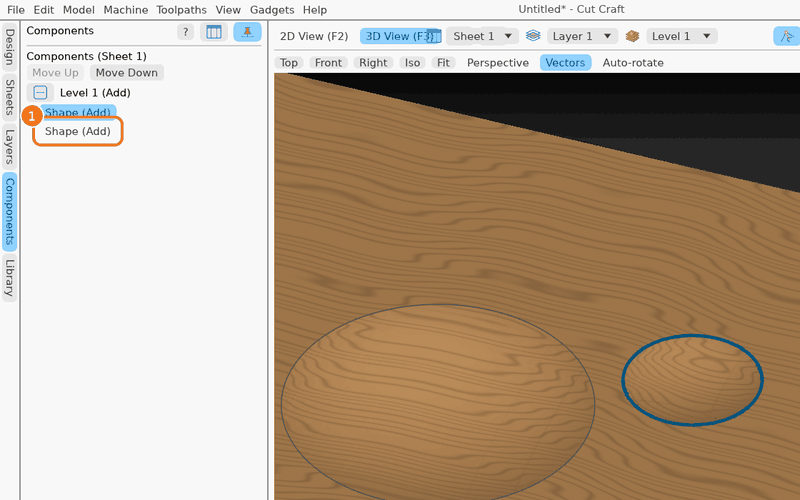
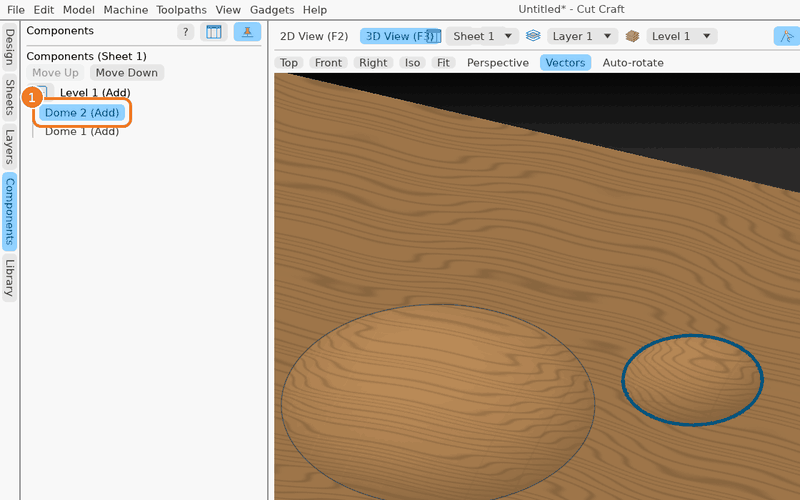
fix: help wording from review: Create buttons, toolpath buttons above the list, hidden toolpaths, spacing order
Claude-Session: https://claude.ai/code/session_01Uqr4BKZKwcPLHnvV4fYfh1

diff --git a/crates/app/src/help_tours.rs b/crates/app/src/help_tours.rs
@@ -4975,7 +4975,7 @@ pub const TOURS: &[Tour] = &[
                 mark: Mark::At("field:name"),
             },
             Step {
-                caption: "Press **Apply**. The new layer goes to the top of the list and is \
+                caption: "Press **Create**. The new layer goes to the top of the list and is \
                           made current, so what you draw next goes on it.",
                 setup: |app, _| {
                     apply_form(app);
@@ -5004,7 +5004,7 @@ pub const TOURS: &[Tour] = &[
                 mark: Mark::At("field:name"),
             },
             Step {
-                caption: "Press **Apply**. The new sheet is listed; click it to work on it, and \
+                caption: "Press **Create**. The new sheet is listed; click it to work on it, and \
                           change its size in **Job Setup**.",
                 setup: |app, _| {
                     apply_form(app);
@@ -5027,7 +5027,7 @@ pub const TOURS: &[Tour] = &[
                 mark: Mark::At("toolpath:Cut out"),
             },
             Step {
-                caption: "Press **Move Up** or **Move Down** under the list, or drag the \
+                caption: "Press **Move Up** or **Move Down** above the list, or drag the \
                           toolpath to its new place.",
                 setup: |_, _| {},
                 mark: Mark::At("button:toolpaths_move_up"),
@@ -5121,7 +5121,7 @@ pub const TOURS: &[Tour] = &[
                 mark: Mark::At("field:cross_section"),
             },
             Step {
-                caption: "Press **Apply**. The knot's loops are drawn as smooth closed vectors, \
+                caption: "Press **Create**. The knot's loops are drawn as smooth closed vectors, \
                           the rails Extrude and Weave turns into a weave.",
                 setup: |app, _| {
                     set(app, "cross_section", true.into());
@@ -5256,7 +5256,7 @@ pub const TOURS: &[Tour] = &[
                 mark: Mark::At("field:angle"),
             },
             Step {
-                caption: "Press **Apply**. The shape is added to the model as a component.",
+                caption: "Press **Create**. The shape is added to the model as a component.",
                 setup: |app, _| model_result(app, &[("total_height", 12.0)]),
                 mark: Mark::None,
             },
@@ -5479,7 +5479,7 @@ pub const TOURS: &[Tour] = &[
                 mark: Mark::At("toolpath:Engrave"),
             },
             Step {
-                caption: "Press **Delete** under the list (or the Delete key). The vectors it \
+                caption: "Press **Delete** above the list (or the Delete key). The vectors it \
                           was made from stay.",
                 setup: |_, _| {},
                 mark: Mark::At("button:toolpaths_delete"),
@@ -5505,8 +5505,8 @@ pub const TOURS: &[Tour] = &[
                 mark: Mark::At("component:Shape"),
             },
             Step {
-                caption: "Choose **Duplicate**. The copy sits in the same place, just above it \
-                          in the list: move it where you want it.",
+                caption: "Choose **Duplicate**. The copy sits in the same place, at the top of \
+                          its level in the list: click it there, then move it.",
                 setup: |app, _| {
                     let first = app.doc.components.keys().next().copied();
                     if let Some(id) = first {
@@ -5624,7 +5624,7 @@ pub const TOURS: &[Tour] = &[
                 mark: Mark::At("toolpath:Engrave"),
             },
             Step {
-                caption: "Press **Group** under the list. The group is cut one toolpath after \
+                caption: "Press **Group** above the list. The group is cut one toolpath after \
                           another, and moves as one.",
                 setup: |_, _| {},
                 mark: Mark::At("button:toolpaths_group"),
@@ -5692,7 +5692,7 @@ pub const TOURS: &[Tour] = &[
                 mark: Mark::At("field:name"),
             },
             Step {
-                caption: "Press **Apply**. The new level goes on top: it combines with the \
+                caption: "Press **Create**. The new level goes on top: it combines with the \
                           levels below it.",
                 setup: |app, _| {
                     apply_form(app);
@@ -5773,7 +5773,7 @@ pub const TOURS: &[Tour] = &[
             },
             Step {
                 caption: "Tick **Own Colour** and pick a **Colour** to tell this layer's \
-                          vectors apart at a glance.",
+                          vectors apart, then press **Apply** to keep the changes.",
                 setup: |app, _| set(app, "own_colour", true.into()),
                 mark: Mark::At("field:own_colour"),
             },
@@ -6115,11 +6115,16 @@ pub const TOURS: &[Tour] = &[
                 setup: |app, ctx| {
                     fresh_job(app, ctx);
                     model_dome2(app, ctx);
+                    for (component, name) in
+                        app.doc.components.values_mut().zip(["Dome 1", "Dome 2"])
+                    {
+                        component.name = name.into();
+                    }
                     let last = app.doc.components.keys().last().copied();
                     app.doc.selected_components = last.into_iter().collect();
                     on_list(app, COMPONENTS);
                 },
-                mark: Mark::At("component:Shape"),
+                mark: Mark::At("component:Dome 2"),
             },
             Step {
                 caption: "Press **Move Up** or **Move Down** over the list to move it one place \
@@ -6148,7 +6153,8 @@ pub const TOURS: &[Tour] = &[
                 mark: Mark::At("tool:reorder_layer"),
             },
             Step {
-                caption: "The layer is one place lower in the list now.",
+                caption: "The layer is one place lower in the list now (Move Up takes it \
+                          back up).",
                 setup: |app, _| {
                     let params = serde_json::json!({ "layer": 2, "direction": "down" });
                     run(app, "reorder_layer", params);
@@ -6521,7 +6527,8 @@ pub const TOURS: &[Tour] = &[
         tool: "space_horizontally",
         steps: &[
             Step {
-                caption: "Select three or more shapes. The outermost two stay where they are.",
+                caption: "Select three or more shapes, clicking them in the order you want them \
+                          from left to right.",
                 setup: |app, ctx| {
                     fresh_job(app, ctx);
                     shapes_three(app);
@@ -6543,8 +6550,8 @@ pub const TOURS: &[Tour] = &[
         tool: "space_vertically",
         steps: &[
             Step {
-                caption: "Select three or more shapes. The top and bottom ones stay where they \
-                          are.",
+                caption: "Select three or more shapes, clicking them in the order you want them \
+                          from bottom to top.",
                 setup: |app, ctx| {
                     fresh_job(app, ctx);
                     stacked_three(app);
@@ -6652,8 +6659,8 @@ pub const TOURS: &[Tour] = &[
                 mark: Mark::At("field:name"),
             },
             Step {
-                caption: "The tick before a toolpath shows or hides it, and its coloured square \
-                          sets its colour in the preview.",
+                caption: "The tick before a toolpath shows or hides it. Its coloured square, \
+                          shown when the material's Machined Area Color is Toolpath Color, sets its colour.",
                 setup: |app, _| {
                     set(app, "name", "Cut out".into());
                     apply_form(app);
@@ -6792,7 +6799,7 @@ pub const TOURS: &[Tour] = &[
                 mark: Mark::At("toolpath_group:Group 1"),
             },
             Step {
-                caption: "Press **Ungroup** under the list (or right-click the group ▸ \
+                caption: "Press **Ungroup** above the list (or right-click the group ▸ \
                           **Ungroup**). Its toolpaths stay, out of the group.",
                 setup: |_, _| {},
                 mark: Mark::At("button:toolpaths_ungroup"),
@@ -6877,7 +6884,7 @@ pub const TOURS: &[Tour] = &[
                 mark: Mark::At("field:cove_start"),
             },
             Step {
-                caption: "Press **Apply**. The flutes are laid out as vectors on the unrolled \
+                caption: "Press **Create**. The flutes are laid out as vectors on the unrolled \
                           surface, for a Profile or Fluting toolpath.",
                 setup: |app, _| apply_form(app),
                 mark: Mark::Everything,
@@ -6903,7 +6910,7 @@ pub const TOURS: &[Tour] = &[
                 mark: Mark::At("field:distance"),
             },
             Step {
-                caption: "Press **Apply**. The strands are laid out on the unrolled surface; \
+                caption: "Press **Create**. The strands are laid out on the unrolled surface; \
                           wrapped round, they are a spiral.",
                 setup: |app, _| apply_form(app),
                 mark: Mark::Everything,

diff --git a/crates/help/pages/tools/space_vertically.md b/crates/help/pages/tools/space_vertically.md
@@ -4,13 +4,13 @@ see-also: space_horizontally, align_top, center_vertically
 ---
 
 **Space Vertically** spreads the selected objects so the gaps between them up the job are even.
-The top and bottom ones stay where they are. It is in **Edit ▸ Align Selected Objects**.
+It is in **Edit ▸ Align Selected Objects**.
 
 ## Steps
 
 ![The steps, one after another](pictures/space_vertically/tour.gif)
 
-1. Select three or more shapes. The top and bottom ones stay where they are.
+1. Select three or more shapes, clicking them in the order you want them from bottom to top.
 
    ![Step 1](pictures/space_vertically/step-1.png)
 
@@ -20,8 +20,10 @@ The top and bottom ones stay where they are. It is in **Edit ▸ Align Selected 
 
 ## The choices
 
-- **Bottom To Top**: the first one you picked goes at the bottom.
-- **Top To Bottom**: the first one you picked goes at the top.
+- **Space Vertically** on the right-click menu keeps them in the order they sit: the top and
+  bottom ones stay where they are.
+- **Bottom To Top**: the first one you picked goes at the bottom, so the ends can move too.
+- **Top To Bottom**: the first one you picked goes at the top, so the ends can move too.
 - **Vertically Inside Last Vector**: spreads them inside the last vector picked, which stays put.
 
 See [Space Horizontally](help:space_horizontally) for spacing across.

diff --git a/crates/help/pages/tools/space_horizontally.md b/crates/help/pages/tools/space_horizontally.md
@@ -4,13 +4,13 @@ see-also: space_vertically, align_left, center_horizontally
 ---
 
 **Space Horizontally** spreads the selected objects so the gaps between them across the job are
-even. The leftmost and rightmost stay where they are. It is in **Edit ▸ Align Selected Objects**.
+even. It is in **Edit ▸ Align Selected Objects**.
 
 ## Steps
 
 ![The steps, one after another](pictures/space_horizontally/tour.gif)
 
-1. Select three or more shapes. The outermost two stay where they are.
+1. Select three or more shapes, clicking them in the order you want them from left to right.
 
    ![Step 1](pictures/space_horizontally/step-1.png)
 
@@ -20,8 +20,10 @@ even. The leftmost and rightmost stay where they are. It is in **Edit ▸ Align 
 
 ## The choices
 
-- **Left To Right**: the first one you picked goes on the left.
-- **Right To Left**: the first one you picked goes on the right.
+- **Space Horizontally** on the right-click menu keeps them in the order they sit: the leftmost
+  and rightmost stay where they are.
+- **Left To Right**: the first one you picked goes on the left, so the ends can move too.
+- **Right To Left**: the first one you picked goes on the right, so the ends can move too.
 - **Horizontally Inside Last Vector**: spreads them inside the last vector picked, which stays
   put.
 

diff --git a/crates/help/pages/tools/toolpath_properties.md b/crates/help/pages/tools/toolpath_properties.md
@@ -18,7 +18,7 @@ Toolpath List: right-click ▸ **Rename**, the tick before it, and its coloured 
 
    ![Step 2](pictures/toolpath_properties/step-2.png)
 
-3. The tick before a toolpath shows or hides it, and its coloured square sets its colour in the preview.
+3. The tick before a toolpath shows or hides it. Its coloured square, shown when the material's Machined Area Color is Toolpath Color, sets its colour.
 
    ![Step 3](pictures/toolpath_properties/step-3.png)
 
@@ -26,4 +26,8 @@ Toolpath List: right-click ▸ **Rename**, the tick before it, and its coloured 
 
 - **Preview Color: No Fill** on the right-click menu shows its areas in the material's own
   colour.
-- Hidden (unticked) toolpaths are not drawn, previewed or saved.
+- The coloured square shows only when the material's **Machined Area Color** is **Toolpath
+  Color**.
+- Hidden (unticked) toolpaths are not drawn, and **Preview Visible** and **Save Toolpaths**
+  (shown ones) leave them out. **Preview All** still previews them, and saving the selected
+  toolpath alone still saves it.

diff --git a/crates/help/pages/tools/duplicate_component.md b/crates/help/pages/tools/duplicate_component.md
@@ -3,8 +3,8 @@ reviewed: 2026-11-22
 see-also: component_properties, mirror, array_copy
 ---
 
-**Duplicate** makes a copy of a 3D component in the same place and level, just above it in the
-Components list. Move or change the copy without touching the first.
+**Duplicate** makes a copy of a 3D component in the same place and level, at the top of that
+level in the Components list. Click the copy there before you move it. Move or change the copy without touching the first.
 
 ## Steps
 
@@ -14,7 +14,7 @@ Components list. Move or change the copy without touching the first.
 
    ![Step 1](pictures/duplicate_component/step-1.png)
 
-2. Choose **Duplicate**. The copy sits in the same place, just above it in the list: move it where you want it.
+2. Choose **Duplicate**. The copy sits in the same place, at the top of its level in the list: click it there, then move it.
 
    ![Step 2](pictures/duplicate_component/step-2.png)
 

diff --git a/crates/help/pages/tools/select_all_duplicate_vectors.md b/crates/help/pages/tools/select_all_duplicate_vectors.md
@@ -3,8 +3,8 @@ reviewed: 2026-11-22
 see-also: select_all_vectors, vector_validator, delete
 ---
 
-**Select All Duplicate Vectors** (Edit ▸ Selection) selects every vector lying exactly on top of
-another one. Drawings from other programs often have them, and they would be cut twice. Press
+**Select All Duplicate Vectors** (Edit ▸ Selection) selects the extra copies of every vector
+drawn twice, one exactly on top of the other, leaving one of each unselected. Drawings from other programs often have them, and they would be cut twice. Press
 **Delete** to keep one of each.
 
 ## Steps

diff --git a/crates/help/pages/tools/show_hide.md b/crates/help/pages/tools/show_hide.md
@@ -4,8 +4,8 @@ see-also: layer_properties, interface_layout, zoom_to_job
 ---
 
 **Show** and **Hide** on the right-click menu of a layer, toolpath or component show or hide it,
-or a whole set at once. Hidden layers' vectors are not drawn or picked, hidden toolpaths are not
-previewed or saved, and hidden components are left out of the model.
+or a whole set at once. Hidden layers' vectors are not drawn or picked, hidden toolpaths are left
+out of Preview Visible and of saving the shown ones, and hidden components are left out of the model.
 
 ## Steps
 

diff --git a/crates/help/pages/tools/celtic_weave.md b/crates/help/pages/tools/celtic_weave.md
@@ -20,7 +20,7 @@ smooth closed vectors, the rails [Extrude and Weave](help:extrude_and_weave) tur
 
    ![Step 2](pictures/celtic_weave/step-2.png)
 
-3. Press **Apply**. The knot's loops are drawn as smooth closed vectors, the rails Extrude and Weave turns into a weave.
+3. Press **Create**. The knot's loops are drawn as smooth closed vectors, the rails Extrude and Weave turns into a weave.
 
    ![Step 3](pictures/celtic_weave/step-3.png)
 

diff --git a/crates/help/pages/tools/wrapped_fluting_layout.md b/crates/help/pages/tools/wrapped_fluting_layout.md
@@ -19,7 +19,7 @@ for a Profile or Fluting toolpath; it makes no toolpaths itself.
 
    ![Step 2](pictures/wrapped_fluting_layout/step-2.png)
 
-3. Press **Apply**. The flutes are laid out as vectors on the unrolled surface, for a Profile or Fluting toolpath.
+3. Press **Create**. The flutes are laid out as vectors on the unrolled surface, for a Profile or Fluting toolpath.
 
    ![Step 3](pictures/wrapped_fluting_layout/step-3.png)
 

diff --git a/crates/help/pages/tools/add_layer.md b/crates/help/pages/tools/add_layer.md
@@ -19,7 +19,7 @@ the cut-out on another, and show, hide or select each on its own.
 
    ![Step 2](pictures/add_layer/step-2.png)
 
-3. Press **Apply**. The new layer goes to the top of the list and is made current, so what you draw next goes on it.
+3. Press **Create**. The new layer goes to the top of the list and is made current, so what you draw next goes on it.
 
    ![Step 3](pictures/add_layer/step-3.png)
 

diff --git a/crates/help/pages/tools/layer_properties.md b/crates/help/pages/tools/layer_properties.md
@@ -40,6 +40,6 @@ A drawing brought in from a DXF keeps the colours its layers had: see
 
    ![Step 2](pictures/layer_properties/step-2.png)
 
-3. Tick **Own Colour** and pick a **Colour** to tell this layer's vectors apart at a glance.
+3. Tick **Own Colour** and pick a **Colour** to tell this layer's vectors apart, then press **Apply** to keep the changes.
 
    ![Step 3](pictures/layer_properties/step-3.png)

diff --git a/crates/help/pages/tools/group_toolpaths.md b/crates/help/pages/tools/group_toolpaths.md
@@ -15,7 +15,7 @@ and move up and down the list together. Pick toolpaths and press **Group**, or r
 
    ![Step 1](pictures/group_toolpaths/step-1.png)
 
-2. Press **Group** under the list. The group is cut one toolpath after another, and moves as one.
+2. Press **Group** above the list. The group is cut one toolpath after another, and moves as one.
 
    ![Step 2](pictures/group_toolpaths/step-2.png)
 
